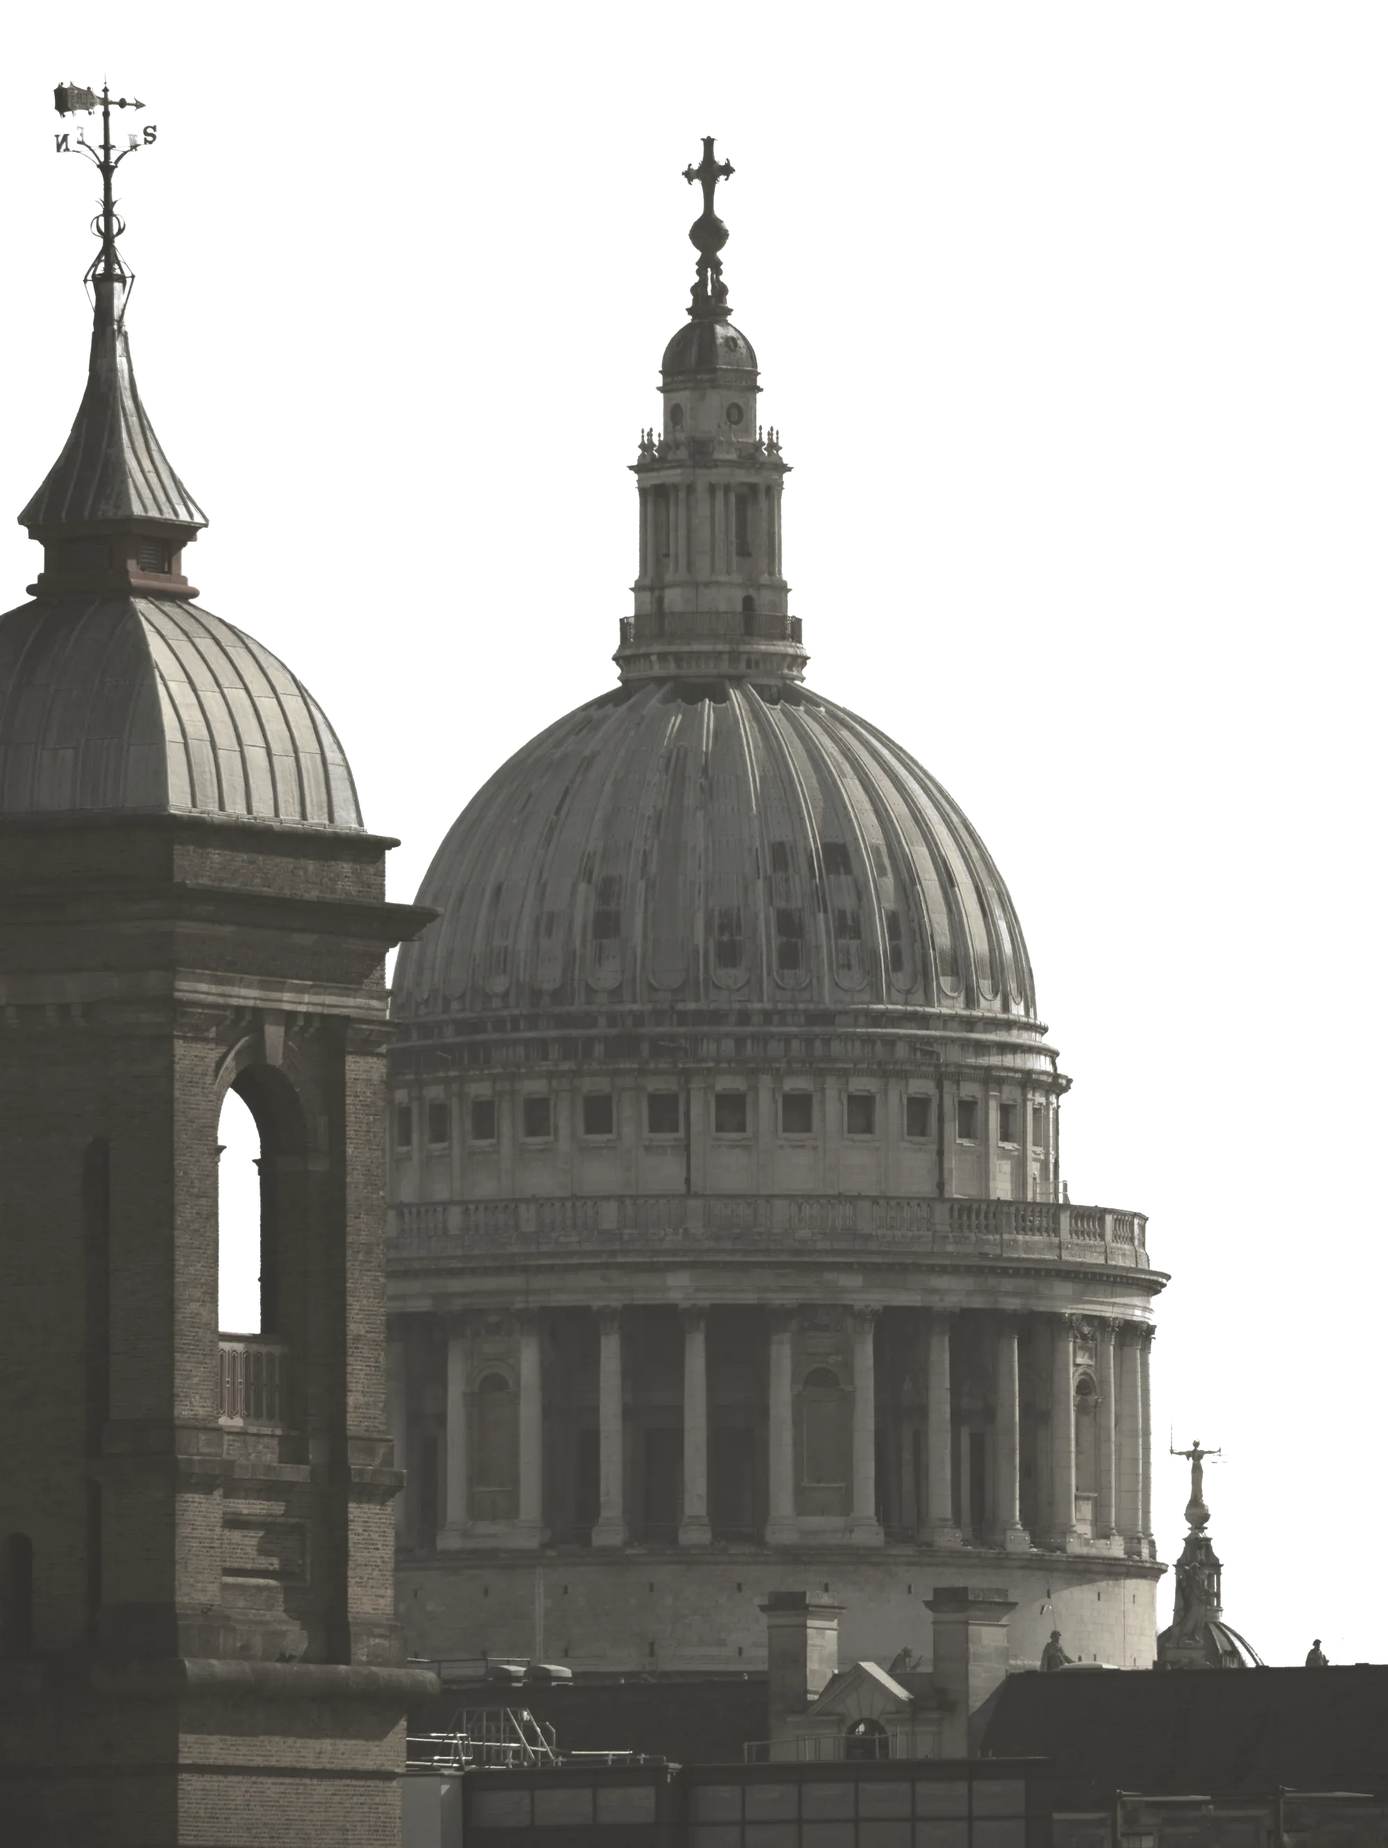
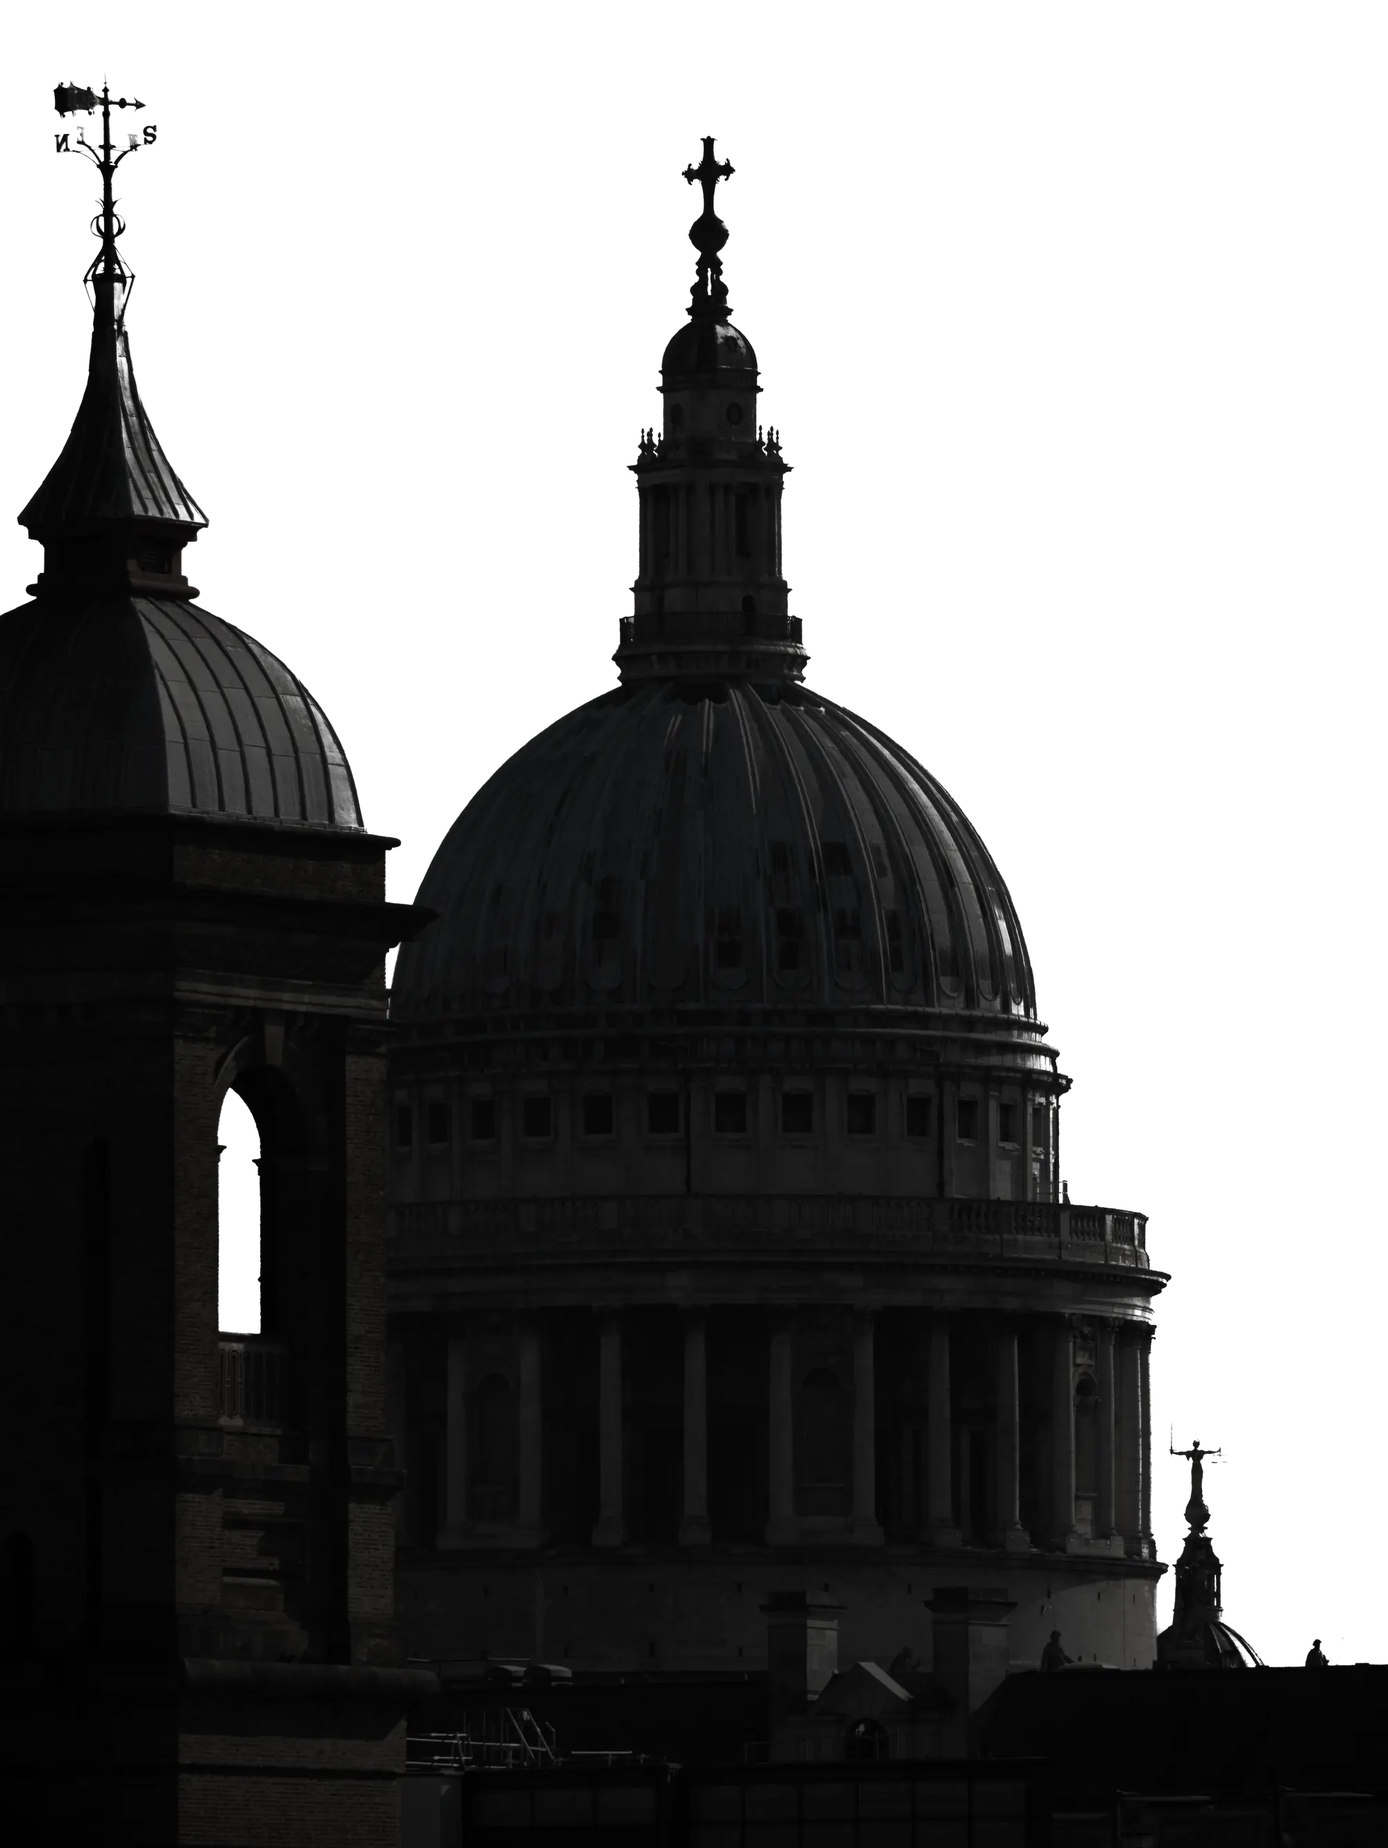
plate

diff --git a/portfolio/styles.css b/portfolio/styles.css
@@ -89,19 +89,36 @@
      Opacity first because it is the only one of the four that is a judgement
      rather than a measurement, and it is the one that gets argued about. */
   --plate-opacity: 0.12;
-  --plate-w: 50vw;   /* how wide it runs — height follows the file's own aspect */
-  --plate-x: 0px;    /* out from the left edge of the page, positive → right     */
-  --plate-y: 0px;    /* up from the bottom of the first screen, positive → up;
-                        negative hangs it past the fold, into the second screen  */
-  --plate-crop: 0;   /* how much of the picture's BOTTOM to cut off, as a share
-                        of --plate-w. Unitless so it is the same crop at every
-                        window size: the plate's height is a fixed multiple of
-                        its width, so a share of one is a share of the other.
-                        0.1 takes off a tenth of the width — about 7.5% of the
-                        height on this frame. It is a crop and not a nudge,
-                        which is why it is the one placement value that is not
-                        a length: --plate-x and --plate-y move the picture and
-                        this one shortens it.                                    */
+  /* Every length below is in the pixels of the frame the picture was composed
+     on — 1920×1080 — and not in a share of the viewer's window. The placement
+     was made against the dome, the drum and the near tower, and a composition
+     made against those does not survive being re-scaled: the 60.5vw that stood
+     the tower in the corner on a 1920 display had it swallowing the corner on a
+     2560 one, and the top edge of the picture — the first thing the eye meets,
+     above the column — arrived 100px down the page on a 1366 laptop and 80px
+     ABOVE it, decapitated, on a 2560 desktop. So the plate is drawn at one size,
+     from one datum, everywhere, and what varies with the window is only how much
+     of it that window happens to reach — which is the bargain a plate tipped
+     into a book makes as well.
+     --plate-fold is the odd one out: not a placement but the datum the other
+     three are measured from, the bottom edge of that reference frame. It is the
+     value that used to be 100vh, and being 100vh is what moved the picture.    */
+  --plate-fold: 1080px;
+  --plate-w: 1161.6px; /* how wide it runs — height follows the file's own aspect.
+                          60.5% of the 1920 frame, which is where it was tuned   */
+  --plate-x: 0px;      /* out from the left edge of the page, positive → right   */
+  --plate-y: -310px;   /* up from --plate-fold, positive → up; negative hangs it
+                          past the fold, into the second screen                  */
+  --plate-crop: 0.15;  /* how much of the picture's BOTTOM to cut off, as a share
+                          of --plate-w rather than a length of its own: the
+                          plate's height is a fixed multiple of its width, so a
+                          share of one is a share of the other, and the crop
+                          survives --plate-w being re-tuned without having to be
+                          re-measured after it. 0.15 takes off a sixth of the
+                          width — about 11% of the height on this frame. It is a
+                          crop and not a nudge, which is why it is the one
+                          placement value that is not a length: --plate-x and
+                          --plate-y move the picture and this one shortens it.   */
   /* The file itself. Left unset on purpose — index.html picks the rung that
      suits the display and sets this, so a browser is never told to fetch the
      2800px plate to draw it 400px wide. Unset means no plate, which is also the
@@ -493,31 +510,43 @@ a { color: inherit; }
    this opacity they read as the edge of a tipped-in plate rather than as a crop.
 
    The box's bottom edge IS the plate's bottom edge, and --plate-y is the whole
-   of the difference between it and the fold: the box is `100vh - --plate-y`, so
-   a positive value lifts the picture and shortens the box with it, and a negative
-   one hangs the picture past the fold and lengthens the box to follow. That is
-   why the box is sized rather than the background offset — the two used to be
-   independent, and the picture was then clipped at the fold whatever you did to
-   the offset, which made "down" a direction the plate could not go.
+   of the difference between it and the datum: the box is
+   `--plate-fold - --plate-y`, so a positive value lifts the picture and shortens
+   the box with it, and a negative one hangs the picture past the datum and
+   lengthens the box to follow. That is why the box is sized rather than the
+   background offset — the two used to be independent, and the picture was then
+   clipped at the box's foot whatever you did to the offset, which made "down" a
+   direction the plate could not go.
 
    --plate-crop then trims the bottom, and it does it with the same edge: the
    background is pushed DOWN past the box's bottom by the crop, so what falls
    outside is what is cut. One edge, doing both jobs, which is why cropping the
    foreground does not also move the picture up the page.
 
-   The box is otherwise the FIRST screen — top of the document — and the plate
-   sits on its bottom edge. So it is there on the page you open, in the corner
-   under the column, and it leaves as you scroll: it is part of the opening
-   composition rather than a watermark. Neither of the two alternatives is this.
-   `fixed` would pin it to the window and it would follow you down the whole
-   document; `inset: 0` would hand it the document's bottom corner, which on
-   desktop is the foot of the second screen and is not somewhere you arrive by
-   opening the page.
+   The box otherwise starts at the top of the DOCUMENT and runs to a fixed depth,
+   so the plate is there on the page you open, in the corner under the column, and
+   it leaves as you scroll: it is part of the opening composition rather than a
+   watermark. Neither of the two alternatives is this. `fixed` would pin it to the
+   window and it would follow you down the whole document; `inset: 0` would hand
+   it the document's bottom corner, which on desktop is the foot of the second
+   screen and is not somewhere you arrive by opening the page.
 
-   100vh, not 100dvh: it has to agree with the fold that the cut title is measured
-   against — `.cut-title` is placed at `calc(100vh - var(--cue-clip))` — and a
-   plate whose bottom edge slid with a collapsing mobile toolbar while the cut
-   stayed put would break the one alignment on the page that is exact.
+   --plate-fold and not 100vh, which is the whole of the change: measured against
+   a viewport unit this was a different picture on every display, and the edge it
+   moved most was the top one. What that costs is the shared datum — `.cut-title`
+   still sits at `calc(100vh - var(--cue-clip))`, so the plate's bottom edge and
+   the cut agree only on a 1080-tall screen. It is a smaller loss than it sounds:
+   --plate-y already hangs the plate 310px past the datum, so the two edges have
+   not coincided since the plate was last placed, and what was actually shared was
+   the number they were each measured from rather than any line you can see. A
+   picture that arrives in the same place on every screen is worth more than that.
+
+   It also means the plate no longer knows how wide the window is. Below about
+   1160px its right-hand edge is off-screen, and on a phone you are looking at the
+   left-hand quarter of it at full size rather than at the whole of it shrunk —
+   which is the intended reading, since shrinking it is the thing that moved the
+   composition in the first place, but it is why there is no width here that
+   responds to anything.
 
    background-position does the vertical anchoring rather than a height on the
    box, so the file's own aspect ratio is nowhere in this sheet and cannot drift
@@ -536,7 +565,7 @@ body::after {
   top: 0;
   left: 0;
   right: 0;
-  height: calc(100vh - var(--plate-y));
+  height: calc(var(--plate-fold) - var(--plate-y));
   z-index: -1;
   pointer-events: none;
   background-image: var(--plate-src);
@@ -555,13 +584,15 @@ body::after {
   background-position:
     left var(--plate-x)
     bottom calc(-1 * var(--plate-crop) * var(--plate-w));
-  /* Half the page, at every width. Height follows the file's own aspect, so the
-     aspect ratio lives in the file and not in this sheet.
-     50vw and not a share of the gutter: the plate is meant to run in behind the
-     measure rather than stand beside it, so its right-hand edge falls in the
-     middle of the column instead of in the margin. Nothing in the column paints a
-     background — the type sits straight on the plate, which is the point — so the
-     only thing that edge crosses is white space between lines. */
+  /* The same 1161.6px in every window, not three-fifths of each one. Height
+     follows the file's own aspect, so the aspect ratio lives in the file and not
+     in this sheet.
+     Sized against the 1920 frame and not against the gutter: the plate is meant
+     to run in behind the measure rather than stand beside it, so on that frame
+     its right-hand edge falls near the far side of the column instead of in the
+     margin. Nothing in the column paints a background — the type sits straight on
+     the plate, which is the point — so the only thing that edge crosses is white
+     space between lines. */
   background-size: var(--plate-w) auto;
   opacity: var(--plate-opacity);
 }

diff --git a/design/plate/plate-tuner.html b/design/plate/plate-tuner.html
@@ -142,7 +142,11 @@
      is a block of Python to paste back.
    * THE PLACEMENT is four custom properties in portfolio/styles.css, and those
      are live: the preview is the real page in an iframe with the regraded plate
-     dropped into it, so what moves under the type here moves there.
+     dropped into it, so what moves under the type here moves there. All four are
+     lengths in the pixels of the 1920×1080 frame the picture was composed on,
+     not shares of the window — styles.css declares a fifth, --plate-fold, which
+     is that frame's own bottom edge and is the datum rather than a placement,
+     which is why there is no slider for it here.
 
    You cannot judge the first without the second. A grade read at 100% on a white
    field is a different photograph from the same grade at --plate-opacity behind a
@@ -229,14 +233,14 @@ var MATTE = [
 var PLACE = [
   { k: "--plate-opacity", label: "opacity", unit: "",   min: 0, max: 0.6, step: 0.005, dp: 3, dark: true,
     tip: "The one number that decides whether this is paper stock or a picture.\nThe moment you notice it as a photograph it is too strong." },
-  { k: "--plate-w", label: "width",  unit: "vw", min: 10,   max: 100, step: 0.5, dp: 1,
-    tip: "How far it runs across the page. Height follows the file's own aspect.\nAt 50 its right-hand edge falls inside the column of text, which is the point — it is what the type is printed on, not something beside it." },
+  { k: "--plate-w", label: "width",  unit: "px", min: 200, max: 2400, step: 1, dp: 1,
+    tip: "How far it runs across the page. Height follows the file's own aspect.\nA LENGTH, not a share of the window: the picture is drawn this wide on every display, so its right-hand edge lands in the same place on all of them. 1161.6 is 60.5% of the 1920 frame this was composed on, where that edge falls near the far side of the column of text — which is the point, it is what the type is printed on, not something beside it.\nSo the preview frame's width no longer changes the plate. It only changes where the column stands on it, which is the thing a narrow window really does move." },
   { k: "--plate-x", label: "out from left", unit: "px", min: -400, max: 400, step: 1, dp: 0,
     tip: "Positive moves it right, off the page's left edge." },
-  { k: "--plate-y", label: "up from bottom", unit: "px", min: -1600, max: 1200, step: 1, dp: 0,
-    tip: "Positive lifts it off the bottom of the first screen.\nNegative hangs it PAST the fold and down into the second screen — the box grows with it, so nothing is cut off at the fold any more.\nGo far enough down and the page gets longer, because the plate is still part of the document." },
+  { k: "--plate-y", label: "up from the fold", unit: "px", min: -1600, max: 1200, step: 1, dp: 0,
+    tip: "Positive lifts it off --plate-fold, the bottom edge of the 1920×1080 frame this was composed on — 1080px down the document, wherever the viewer's own fold happens to be.\nNegative hangs it PAST that line and down into the second screen — the box grows with it, so nothing is cut off there any more.\nBecause the datum is fixed and not 100vh, this is also the control for the one measurement that matters most: how far down the page the TOP of the picture arrives. It is the same on every screen." },
   { k: "--plate-crop", label: "crop the foot", unit: "", min: 0, max: 0.9, step: 0.005, dp: 3,
-    tip: "Cuts the BOTTOM off the picture — the rooftops and the glass in front of the dome.\nA share of the plate's width, so it takes the same slice of the photograph at every window size.\nIt shortens the picture where it stands; it does not move it. Use 'up from bottom' for that." }
+    tip: "Cuts the BOTTOM off the picture — the rooftops and the glass in front of the dome.\nA share of the plate's width rather than a length of its own, so it survives 'width' being re-tuned without having to be re-measured after it.\nIt shortens the picture where it stands; it does not move it. Use 'up from the fold' for that." }
 ];
 
 var MATTE_GROUP = { name: "Sky matte", rows: MATTE, py: true,

diff --git a/portfolio/index.html b/portfolio/index.html
@@ -31,8 +31,9 @@
       root.className += " js";
 
       /* ---- the corner plate -------------------------------------------------
-         The plate is half the window wide and is the one heavy thing on the
-         page, so it is neither named in the stylesheet nor fetched at one size.
+         The plate runs most of the way across the page and is the one heavy
+         thing on it, so it is neither named in the stylesheet nor fetched at one
+         size.
          Here, before the stylesheet has even been asked for, we work out how
          many real pixels this display will actually draw it in and fetch only
          that rung of design/plate/build-plate.py's ladder — keep PLATES below
@@ -53,10 +54,16 @@
       var PLATES = [800, 1300, 2000, 2800];
       var WAIT_MS = 1500;
 
-      /* 0.5 because --plate-w is 50vw. If that changes this wants changing with
-         it; being wrong picks a neighbouring rung, which is a slightly soft or
-         slightly heavy plate, not a broken one. */
-      var want = window.innerWidth * 0.5 * (window.devicePixelRatio || 1);
+      /* --plate-w, in CSS pixels. It is a LENGTH and not a share of the window —
+         the plate is drawn the same size on every display — so the window's own
+         width is not in this sum at all, and the only thing left that decides how
+         many real pixels get drawn is the display's density. A narrow phone asks
+         for exactly what a 4K desktop asks for, because it is going to be sent
+         exactly the same picture and simply cannot see all of it.
+         Keep it equal to --plate-w in styles.css; being wrong picks a neighbouring
+         rung, which is a slightly soft or slightly heavy plate, not a broken one. */
+      var PLATE_W = 1161.6;
+      var want = PLATE_W * (window.devicePixelRatio || 1);
       var pick = PLATES[PLATES.length - 1];
       for (var i = 0; i < PLATES.length; i++) {
         if (PLATES[i] >= want) { pick = PLATES[i]; break; }
@@ -91,15 +98,18 @@
         fetchRung(pick, done);
         setTimeout(function () { done(0, null); }, WAIT_MS);
 
-        /* Dragged onto a bigger screen, or a window pulled wide. Upgrade only —
-           a plate already good enough is left alone, so this cannot thrash — and
-           quietly, off the critical path: the swap happens when the larger rung
-           has finished loading, never by blanking what is already on screen. */
+        /* Dragged onto a DENSER screen. Pulling the window wider no longer asks
+           for anything — the plate is the same size in it either way — so what is
+           left to catch is the laptop moved onto a hidpi monitor, which changes
+           devicePixelRatio and fires this. Upgrade only — a plate already good
+           enough is left alone, so this cannot thrash — and quietly, off the
+           critical path: the swap happens when the larger rung has finished
+           loading, never by blanking what is already on screen. */
         var timer;
         window.addEventListener("resize", function () {
           clearTimeout(timer);
           timer = setTimeout(function () {
-            var need = window.innerWidth * 0.5 * (window.devicePixelRatio || 1);
+            var need = PLATE_W * (window.devicePixelRatio || 1);
             for (var j = 0; j < PLATES.length; j++) {
               if (PLATES[j] > shown && (PLATES[j] >= need || j === PLATES.length - 1)) {
                 if (shown >= need) return;

diff --git a/design/type-tuner.html b/design/type-tuner.html
@@ -461,6 +461,7 @@ var DISPLAY = [
   ["Engravers MT",         '"Engravers MT", ' + COMIC],
   ["Perpetua Titling MT",  '"Perpetua Titling MT", ' + COMIC],
   ["Copperplate Gothic",   '"Copperplate Gothic Light", ' + COMIC],
+  ["Friz Quadrata",        '"Friz Quadrata", "Friz Quadrata Std", "ITC Friz Quadrata", ' + COMIC],
 
   /* Old-style and transitional, set large. Quieter than a Didone and warmer;
      the axis is inclined and the serifs keep their weight through the cut. */

diff --git a/design/plate/build-plate.py b/design/plate/build-plate.py
@@ -152,8 +152,8 @@ EXPOSURE_TARGET = 0.34     # ...this value, before the tone curve
 SAT_KEEP = 0.24            # fraction of original chroma kept
 CONTRAST = 0.36            # blend toward a smoothstep S-curve
 HIGHLIGHT_PUSH = 1.34      # >1 lifts highlights; 1.0 is off
-SHADOW = (0x30, 0x2e, 0x2a)    # where black lands — warm dark grey
-HIGHLIGHT = (0xff, 0xfa, 0xea)  # where white lands — warm cream
+SHADOW = (0x00, 0x00, 0x00)    # where black lands — pure black
+HIGHLIGHT = (0x5c, 0x5c, 0x5c)  # where white lands — mid grey
 GRAIN_SIGMA = 0.0075       # in output units, 0..1
 GRAIN_SEED = 20250615      # the frame's own date; any constant would do
 
